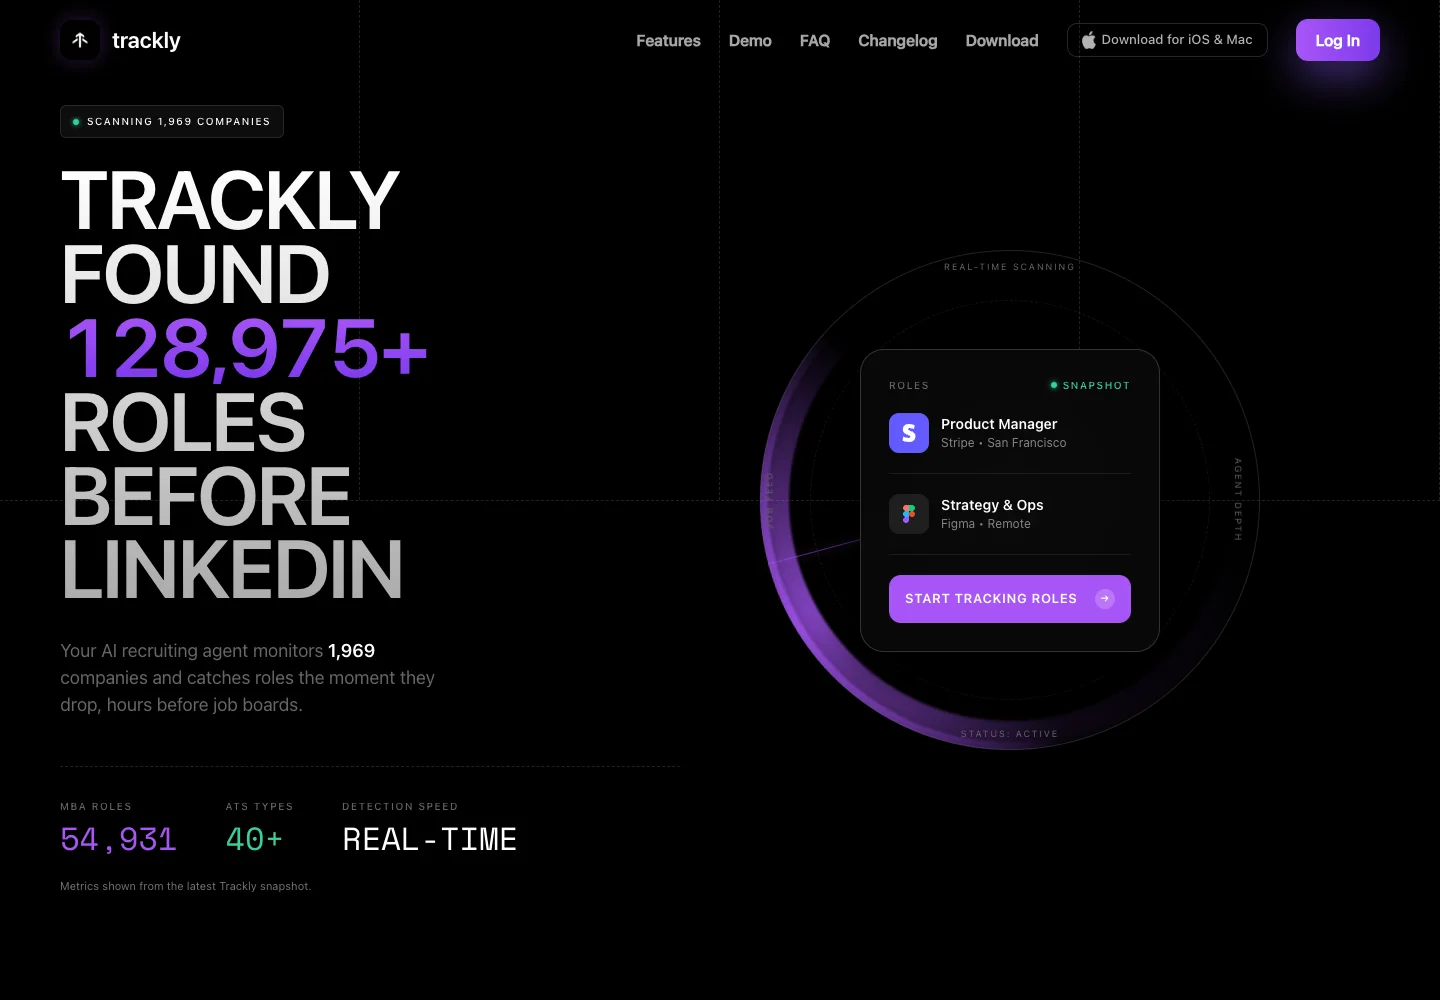
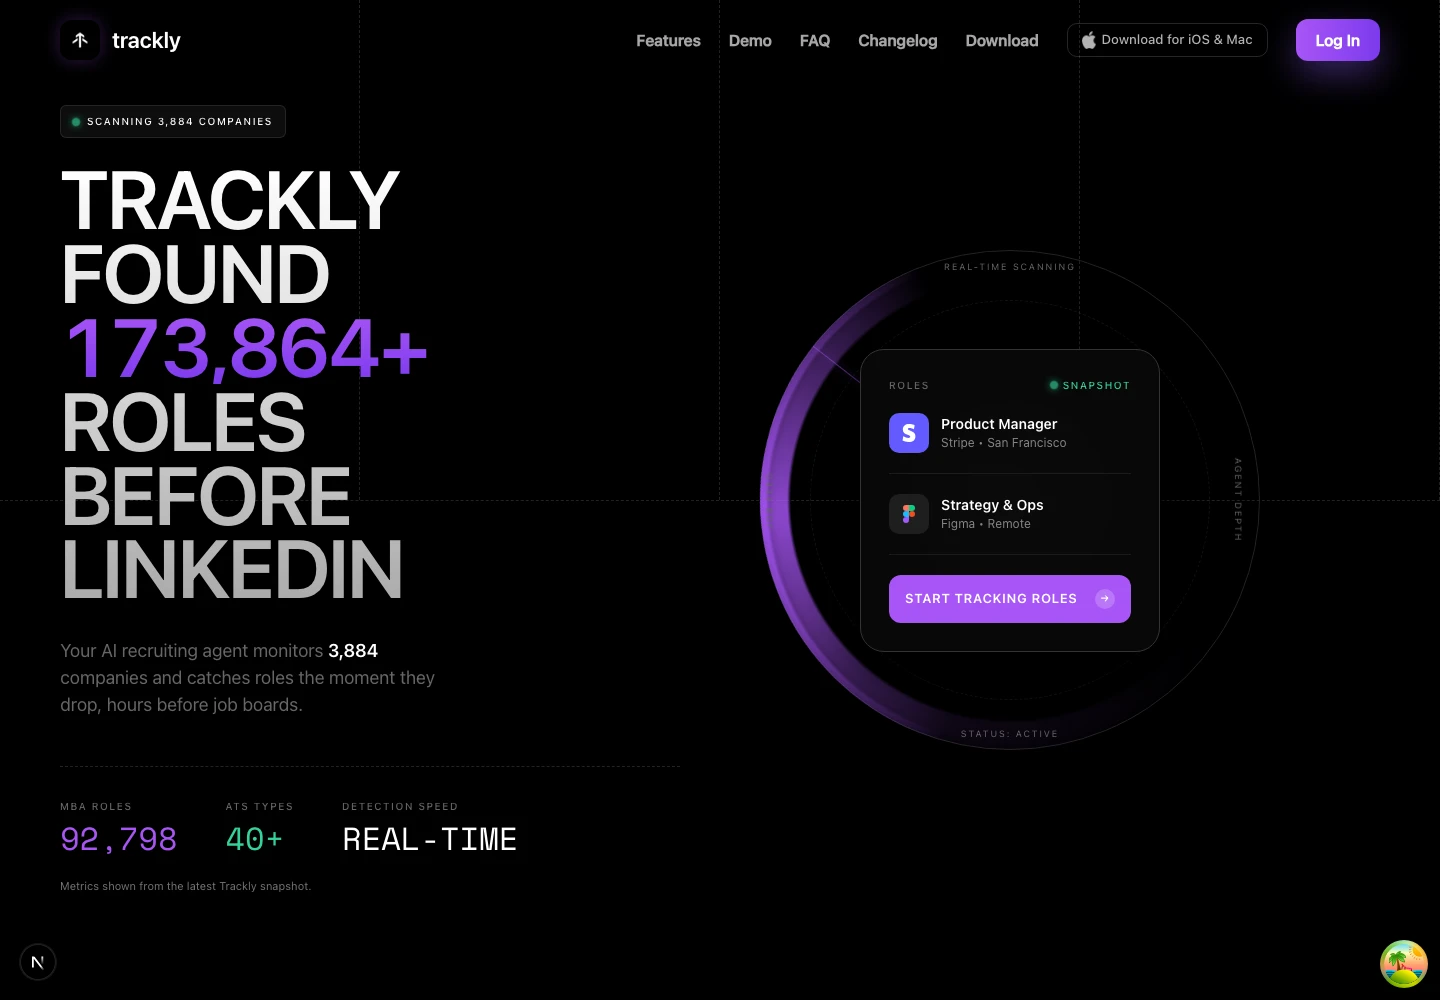
feat: polish Trackly evidence and refresh metrics

diff --git a/src/data/site.js b/src/data/site.js
@@ -15,7 +15,7 @@ export const site = {
   description:
     "Kevin Astuhuaman is an AI Product Manager, ex-PayPal in AI/ML observability, and Berkeley Haas MBA with seven years of experience building products.",
   email: "[email redacted]",
-  updated: "2026-07-13",
+  updated: "2026-07-14",
   image: "/assets/kevin-portrait.webp",
   socialImage: "/assets/og-card.png",
 };
@@ -102,27 +102,27 @@ export const labArtifacts = [
 ];
 
 export const routes = [
-  { path: "/", state: "index", title: "Kevin Astuhuaman | AI Product Manager", modified: "2026-07-12" },
+  { path: "/", state: "index", title: "Kevin Astuhuaman | AI Product Manager", modified: "2026-07-14" },
   { path: "/lab/", state: "index", title: "AI Product Lab | Kevin Astuhuaman", modified: "2026-07-13" },
-  { path: "/projects/trackly/", state: "index", title: "Trackly case study | Kevin Astuhuaman", modified: "2026-07-12" },
+  { path: "/projects/trackly/", state: "index", title: "Trackly case study | Kevin Astuhuaman", modified: "2026-07-14" },
   { path: "/projects/paypal-ai-observability/", state: "index", title: "PayPal AI observability | Kevin Astuhuaman", modified: "2026-07-12" },
   { path: "/projects/berkeley-mobagel-ai-gtm/", state: "index", title: "Berkeley and MoBagel AI product strategy | Kevin Astuhuaman", modified: "2026-07-12" },
   { path: "/projects/smb-fintech-bcp-credicorp/", state: "index", title: "BCP and Credicorp product leadership | Kevin Astuhuaman", modified: "2026-07-12" },
-  { path: "/resume/", state: "index", title: "Resume | Kevin Astuhuaman", modified: "2026-07-12" },
+  { path: "/resume/", state: "index", title: "Resume | Kevin Astuhuaman", modified: "2026-07-14" },
   { path: "/about/", state: "index", title: "About | Kevin Astuhuaman", modified: "2026-07-12" },
-  { path: "/proof/", state: "index", title: "Public evidence | Kevin Astuhuaman", modified: "2026-07-12" },
+  { path: "/proof/", state: "index", title: "Public evidence | Kevin Astuhuaman", modified: "2026-07-14" },
   { path: "/contact/", state: "index", title: "Contact | Kevin Astuhuaman", modified: "2026-07-12" },
   { path: "/ask/", state: "noindex", title: "Ask Kevin's portfolio | Kevin Astuhuaman", modified: "2026-07-13" },
   { path: "/privacy/", state: "index", title: "Privacy | Kevin Astuhuaman", modified: "2026-07-12" },
   { path: "/packet/", state: "compat", title: "Recruiter brief", modified: "2026-07-12" },
   { path: "/projects/agentic-dev-workflows/", state: "compat", title: "AI-assisted product building", modified: "2026-07-12" },
-  { path: "/llms.txt", state: "fetch", title: "LLM profile", modified: "2026-07-12" },
-  { path: "/llms-full.txt", state: "fetch", title: "Full text profile", modified: "2026-07-12" },
-  { path: "/profile.json", state: "fetch", title: "Structured profile", modified: "2026-07-12" },
-  { path: "/projects.json", state: "fetch", title: "Structured projects", modified: "2026-07-12" },
-  { path: "/resume.md", state: "fetch", title: "Markdown resume", modified: "2026-07-12" },
-  { path: "/proof.json", state: "fetch", title: "Public evidence registry", modified: "2026-07-12" },
-  { path: "/assistant-corpus.json", state: "fetch", title: "Public assistant corpus", modified: "2026-07-12" },
+  { path: "/llms.txt", state: "fetch", title: "LLM profile", modified: "2026-07-14" },
+  { path: "/llms-full.txt", state: "fetch", title: "Full text profile", modified: "2026-07-14" },
+  { path: "/profile.json", state: "fetch", title: "Structured profile", modified: "2026-07-14" },
+  { path: "/projects.json", state: "fetch", title: "Structured projects", modified: "2026-07-14" },
+  { path: "/resume.md", state: "fetch", title: "Markdown resume", modified: "2026-07-14" },
+  { path: "/proof.json", state: "fetch", title: "Public evidence registry", modified: "2026-07-14" },
+  { path: "/assistant-corpus.json", state: "fetch", title: "Public assistant corpus", modified: "2026-07-14" },
   { path: "/.well-known/agent-skills/index.json", state: "fetch", title: "Agent navigation index", modified: "2026-07-12" },
   { path: "/.well-known/agent-skills/site-navigation/SKILL.md", state: "fetch", title: "Agent navigation guide", modified: "2026-07-12" },
 ];

diff --git a/src/data/claims.js b/src/data/claims.js
@@ -8,17 +8,17 @@ const PORTFOLIO_ORIGIN = "https://portfolio.kevinastuhuaman.com";
 export const publicClaims = [
   {
     id: "trackly-inventory",
-    statement: "Trackly monitored 1,969 company career sites across 40 ATS and source types, with 128,975 job records in its public inventory on July 12, 2026.",
-    short: "1,969 company career sites across 40 source types",
-    context: "Dated inventory, not a user-adoption claim.",
+    statement: "As of July 14, 2026, Trackly monitored 3,884 active company career sites across 40 ATS and source types, with 173,864 active jobs in its public inventory.",
+    short: "3,884 active company career sites across 40 source types",
+    context: "Dated active inventory from the verified Azure production report, not a user-adoption claim.",
     source: "https://usetrackly.app/",
     evidenceType: "live public product",
-    verified: "2026-07-12",
-    reviewDate: "2026-10-12",
+    verified: "2026-07-14",
+    reviewDate: "2026-10-14",
     metrics: [
-      { value: "1,969", label: "company career sites monitored" },
+      { value: "3,884", label: "active company career sites monitored" },
       { value: "40", label: "ATS and source types" },
-      { value: "128,975", label: "job records in the July 12, 2026 public inventory" },
+      { value: "173,864", label: "active jobs in the July 14, 2026 public inventory" },
     ],
   },
   {

diff --git a/site-public/resume.md b/site-public/resume.md
@@ -4,7 +4,7 @@ AI Product Manager | Ex-PayPal AI/ML Observability | Berkeley Haas MBA '26 | Bay
 
 LinkedIn: https://www.linkedin.com/in/kevinastuhuaman | GitHub: https://github.com/kevinastuhuaman | Portfolio: https://portfolio.kevinastuhuaman.com
 
-Version: 2026-07-13
+Version: 2026-07-14
 
 Role lenses: Applied AI | Enterprise Platform | Zero-to-One / Growth | Leadership
 